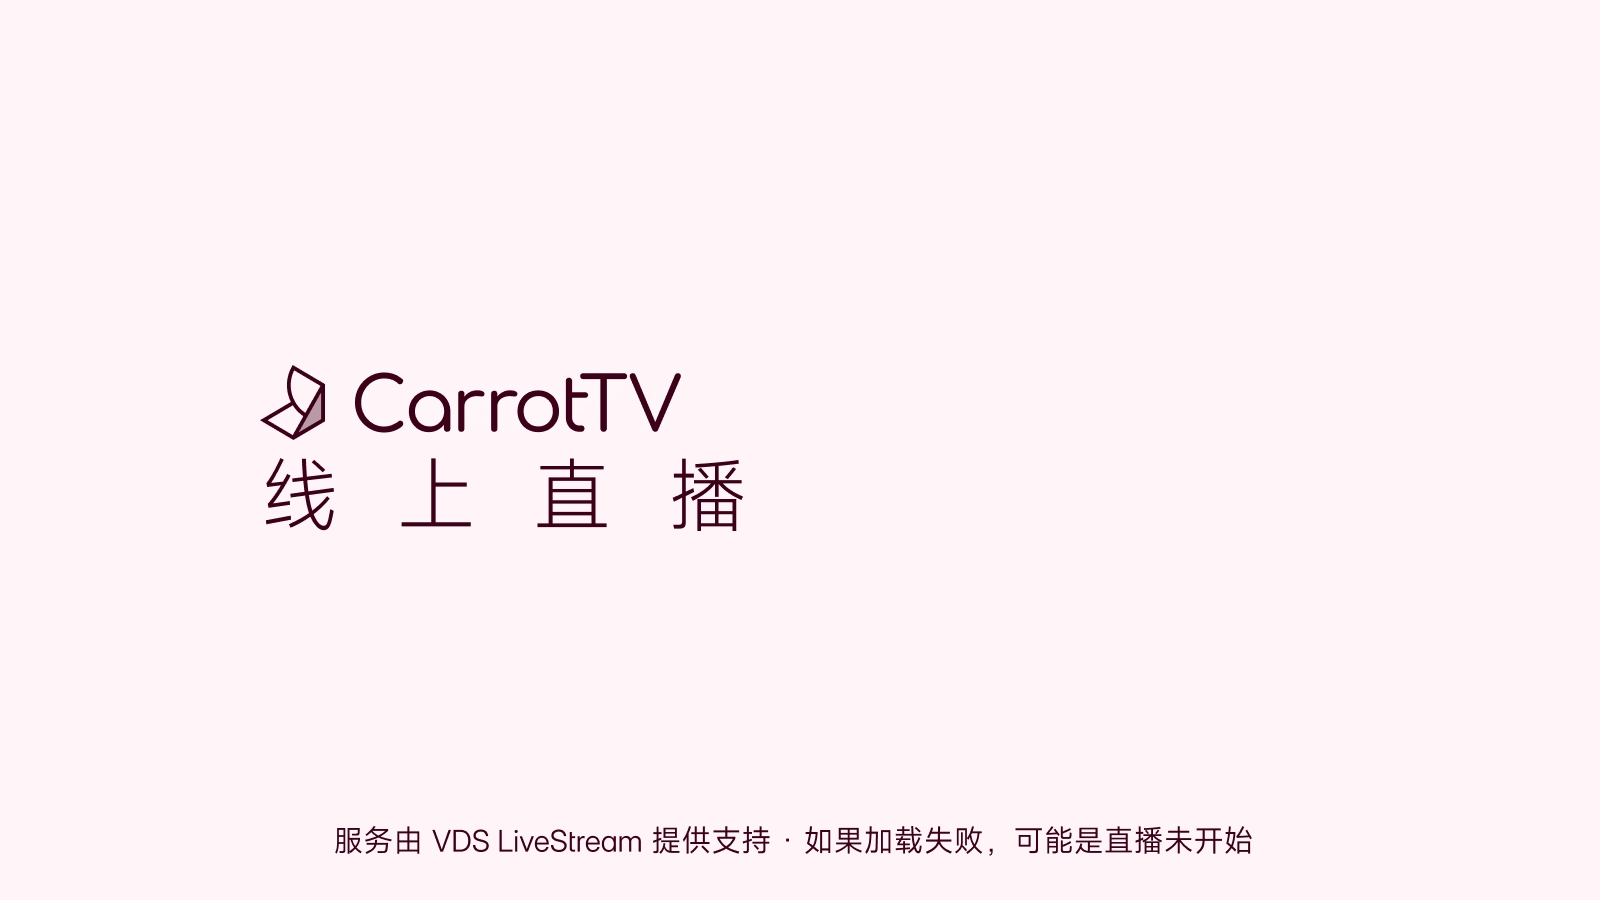
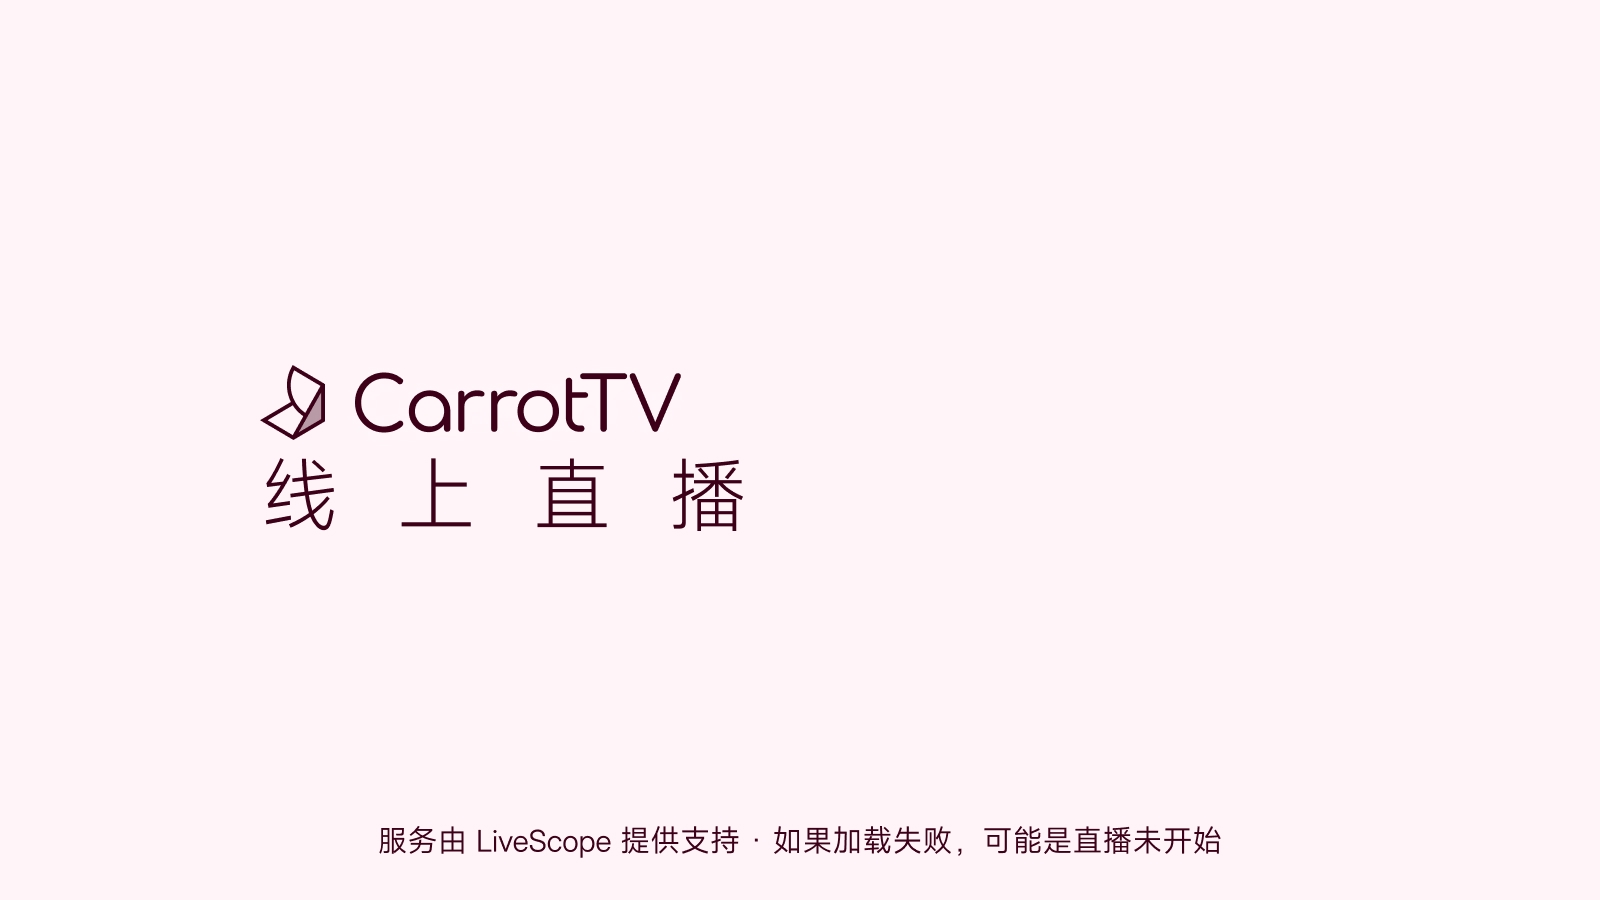
LiveScope migration

Changed region(s): [[0.2188, 0.9022, 0.7812, 0.9644]]

diff --git a/2030.html b/2030.html
@@ -111,7 +111,7 @@
                     具体来说就是，我们将准备偷走 VDS 的标志性渐变蓝 / 青春蓝 / Flux 蓝背景板。是的我明牌了，如果再去另外做设计，那 使用 Figma 这种事情比直接下载图片更耗能源，更不环保，不是吗？<s>何况那边也把《不正经问答》投喂大模型的设定给 <a href="https://t.bilibili.com/983685082913964069" target="_blank">拿走了</a>*，不会有逝的。</s><br>*实际上我蛮支持把这个设定抄走的。
                 </p>
                 <p>
-                    岔题了。—— 稍等一下，不知道你们是否用笔记本记下来了，记下来了的话赶紧在 <a href="https://lsnext.vds.pub/room/CarrotTV" target="_blank">CarrotTV 的 VDS LiveStream 直播间聊天</a> 上发个“2030”，让我看看有多少人记下来了。
+                    岔题了。—— 稍等一下，不知道你们是否用笔记本记下来了，记下来了的话赶紧在 <a href="https://livescope.tv/room/CarrotTV" target="_blank">CarrotTV 的 LiveScope 直播间聊天</a> 上发个“2030”，让我看看有多少人记下来了。
                 </p>
                 <p>
                     除此之外，我们将推出全新的频道 ID。该 ID 将从 Pexels 上随机下载数个视频，然后再以我们的品牌作为结尾。不对，下的视频太多也不环保，那么咱们简单点，随便找个已有的电视台 ID，直接把结尾台标改成 CarrotTV。这才叫践行【请文明用语】的环保！
@@ -130,7 +130,7 @@
                     不得不声明一下：<b>本段内容均为瞎编，谁当真我就黄焖谁。</b>
                 </blockquote>
                 <p>
-                    之前听说 VDS LiveStream 被一个奇怪生物死缠烂打，那个生物申请了多个“套壳直播间”，甚至还把 VDS LiveStream App 的安装包乱传。阳光彩虹小白马直播频道对此表示十分痛心。
+                    之前听说（曾经是）VDS LiveStream 被一个奇怪生物死缠烂打，那个生物申请了多个“套壳直播间”，甚至还把（曾经是）VDS LiveStream App 的安装包乱传。阳光彩虹小白马直播频道对此表示十分痛心。
                 </p>
                 <p>
                     作为一向悲天悯人的 CarrotTV 和阳光彩虹小白马直播频道，我们不忍心看到这些生物只能空虚地游荡，因此，我们创建了一款颠覆性的直播平台（<b>假的，不可能做的</b>）。目前它没有具体命名，倒是有个 codename：“<a href="https://www.bilibili.com/video/av1703920201/" target="_blank">MomoiLive</a>”。<br>

diff --git a/live.html b/live.html
@@ -106,23 +106,26 @@
       </video> -->
       <br>
       <p>
+        直播服务由 <a href="https://livescope.tv">LiveScope</a> 提供。
+      </p>
+      <p>
         CarrotTV（直播频道）并没有固定的直播时间。当你打开这个页面时，CarrotTV（直播频道）可能并没有开播。
       </p>
       <p>
-        当前播放器页面使用的 Vidstack 播放器从 jsDelivr CDN 加载，但 jsDelivr CDN 在部分地区可能无法正常连接。<br>如果播放器未能出现，您可以选择访问 VDS LiveStream 观看，或进入 <a href="live-backup.html">备份播放器</a> 页面。<br><br>
-        如果您在等待超过 10 秒后，仍然发现直播在加载，那很可能 CarrotTV 并没有开始进行直播。您可以进入 VDS LiveStream 页面确定直播状态。
+        当前播放器页面使用的 Vidstack 播放器从 jsDelivr CDN 加载，但 jsDelivr CDN 在部分地区可能无法正常连接。<br>如果播放器未能出现，您可以选择访问 LiveScope 观看，或进入 <a href="live-backup.html">备份播放器</a> 页面。<br><br>
+        如果您在等待超过 10 秒后，仍然发现直播在加载，那很可能 CarrotTV 并没有开始进行直播。您可以进入 LiveScope 页面确定直播状态。
       </p>
       <p>
-        在 VDS LiveStream 中观看 CarrotTV，可获取开播状态，并获得更好的互动体验。
+        在 LiveScope 中观看 CarrotTV，可获取开播状态，并获得更好的互动体验。
       </p>
       <p>
-        <a href="https://lsnext.vds.pub/room/CarrotTV">
-          <button>进入 VDS LiveStream 页面</button>
+        <a href="https://livescope.tv/room/CarrotTV">
+          <button>进入 LiveScope 页面</button>
         </a>
       </p>
-      <p>
-        如果您无法正常访问 VDS LiveStream，也可以尝试使用 <a href="https://vdsls.hydun.com/room/CarrotTV">火毅盾的加速链接</a>。
-      </p>
+      <!-- <p>
+        如果您无法正常访问 LiveScope，也可以尝试使用 <a href="https://vdsls.hydun.com/room/CarrotTV">火毅盾的加速链接</a>。
+      </p> -->
       <p>
         <a href="live-other.html">其他观看方式 →</a>
       </p>

diff --git a/bzjwd.html b/bzjwd.html
@@ -91,8 +91,10 @@
         <section>
             <articlegrid>
                 <article>
-                    <h2>暂缓更新</h2>
-                    <p>由于个人精力与提问内容问题，《不正经问答》即日起将暂缓更新。<br>第 5 期《不正经问答》暂未决定发布日期（实际上也暂未开始制作），敬请期待。</p>
+                    <h2>（也许不是很可靠的）公告</h2>
+                    <p>
+                        由于个人精力与状态，以及提问内容（或者参与者）存在问题，第 5 期《不正经问答》将成为《不正经问答》的最后一期节目。此后，《不正经问答》将被“停播”。不过，在第 5 期《不正经问答》发布后，我们仍将继续接收评论。敬请期待“最后一期”《不正经问答》。
+                    </p>
                 </article>
 
                 <article>
@@ -261,6 +263,10 @@
                             <ul>
                                 <li>
                                     该规定对同一用户的小号也适用。单用户所使用的多个账号中，只要有 <b>其中一个账号</b> 保持了对 @自言者一么 或 @CarrotTV 账号的拉黑，则其 <b>其他账号也将被禁止</b> 参与《不正经问答》。
+                                </li>
+                                <li>
+                                    即便相应用户主动注销账号，或因违规行为被永久封禁，上述规定依旧生效。<b>账号注销或被永久封禁的情况，不会对上述规则的执行与验证产生影响。</b><br>
+                                    同样，若同一用户在注销账号前未解除对 @自言者一么 或 @CarrotTV 账号的拉黑，则该用户，包括其名下所有可正常使用的账号，都将被 <b>永久禁止</b> 参与《不正经问答》。
                                 </li>
                                 <li>
                                     解除拉黑 @自言者一么 或 @CarrotTV 是参与《不正经问答》的必要条件，但并非充分条件，详见下一条。

diff --git a/live-backup.html b/live-backup.html
@@ -88,20 +88,20 @@
         备份播放器页面使用的 Vidstack 播放器从火毅盾加载，仅推荐在主直播页面无法加载播放器的情况下使用。
       </p>
       <p>
-        如果播放器未能出现，您可以选择访问 VDS LiveStream 观看。<br>
-        如果您在等待超过 10 秒后，仍然发现直播在加载，那很可能 CarrotTV 并没有开始进行直播。您可以进入 VDS LiveStream 页面确定直播状态。
+        如果播放器未能出现，您可以选择访问 LiveScope 观看。<br>
+        如果您在等待超过 10 秒后，仍然发现直播在加载，那很可能 CarrotTV 并没有开始进行直播。您可以进入 LiveScope 页面确定直播状态。
       </p>
       <p>
-        在 VDS LiveStream 中观看 CarrotTV，可获取开播状态，并获得更好的互动体验。
+        在 LiveScope 中观看 CarrotTV，可获取开播状态，并获得更好的互动体验。
       </p>
       <p>
-        <a href="https://lsnext.vds.pub/room/CarrotTV">
-          <button>进入 VDS LiveStream 页面</button>
+        <a href="https://livescope.tv/room/CarrotTV">
+          <button>进入 LiveScope 页面</button>
         </a>
       </p>
-      <p>
-        如果您无法正常访问 VDS LiveStream，也可以尝试使用 <a href="https://vdsls.hydun.com/room/CarrotTV">火毅盾的加速链接</a>。
-      </p>
+      <!-- <p>
+        如果您无法正常访问 LiveScope，也可以尝试使用 <a href="https://vdsls.hydun.com/room/CarrotTV">火毅盾的加速链接</a>。
+      </p> -->
       <p>
         <a href="live-other.html">其他观看方式 →</a>
       </p>

diff --git a/live-other.html b/live-other.html
@@ -64,7 +64,7 @@
     <main>
         <p><a href="live.html">← 返回直播页面</a></p>
         <h2>观看 CarrotTV 直播 · 其他观看方式</h2>
-        <p>CarrotTV 官网提供了美观且符合设计风格的定制化播放器，且直播服务由 VDS LiveStream 提供；当然，你同样可以选择其他观看方式。</p>
+        <p>CarrotTV 官网提供了美观且符合设计风格的定制化播放器，且直播服务由 LiveScope 提供；当然，你同样可以选择其他观看方式。</p>
         <p>除了直接在 CarrotTV 官网收看，CarrotTV 目前还有如下观看方式：</p>
         <article>
             <details open>
@@ -72,9 +72,9 @@
             </details>
             <div>
                 <p>
-                    <a href="https://lsnext.vds.pub/room/CarrotTV" target="_blank"><button>VDS LiveStream</button></a>  <a href="https://live.bilibili.com/4621100" target="_blank"><button>bilibili 直播间 - 4621100</button></a>
+                    <a href="https://livescope.tv/room/CarrotTV" target="_blank"><button>LiveScope</button></a>  <a href="https://live.bilibili.com/4621100" target="_blank"><button>bilibili 直播间 - 4621100</button></a>
                 </p>
-                <p>在 VDS LiveStream 中观看 CarrotTV，可获取开播状态，并获得更好的互动体验。</p>
+                <p>在 LiveScope 中观看 CarrotTV，可获取开播状态，并获得更好的互动体验。</p>
                 <p>注：bilibili 直播间一般更偏向于日常娱乐直播，因此基本上没有 CarrotTV 时段（除非转播重大活动）。</p>
             </div>
         </article>
